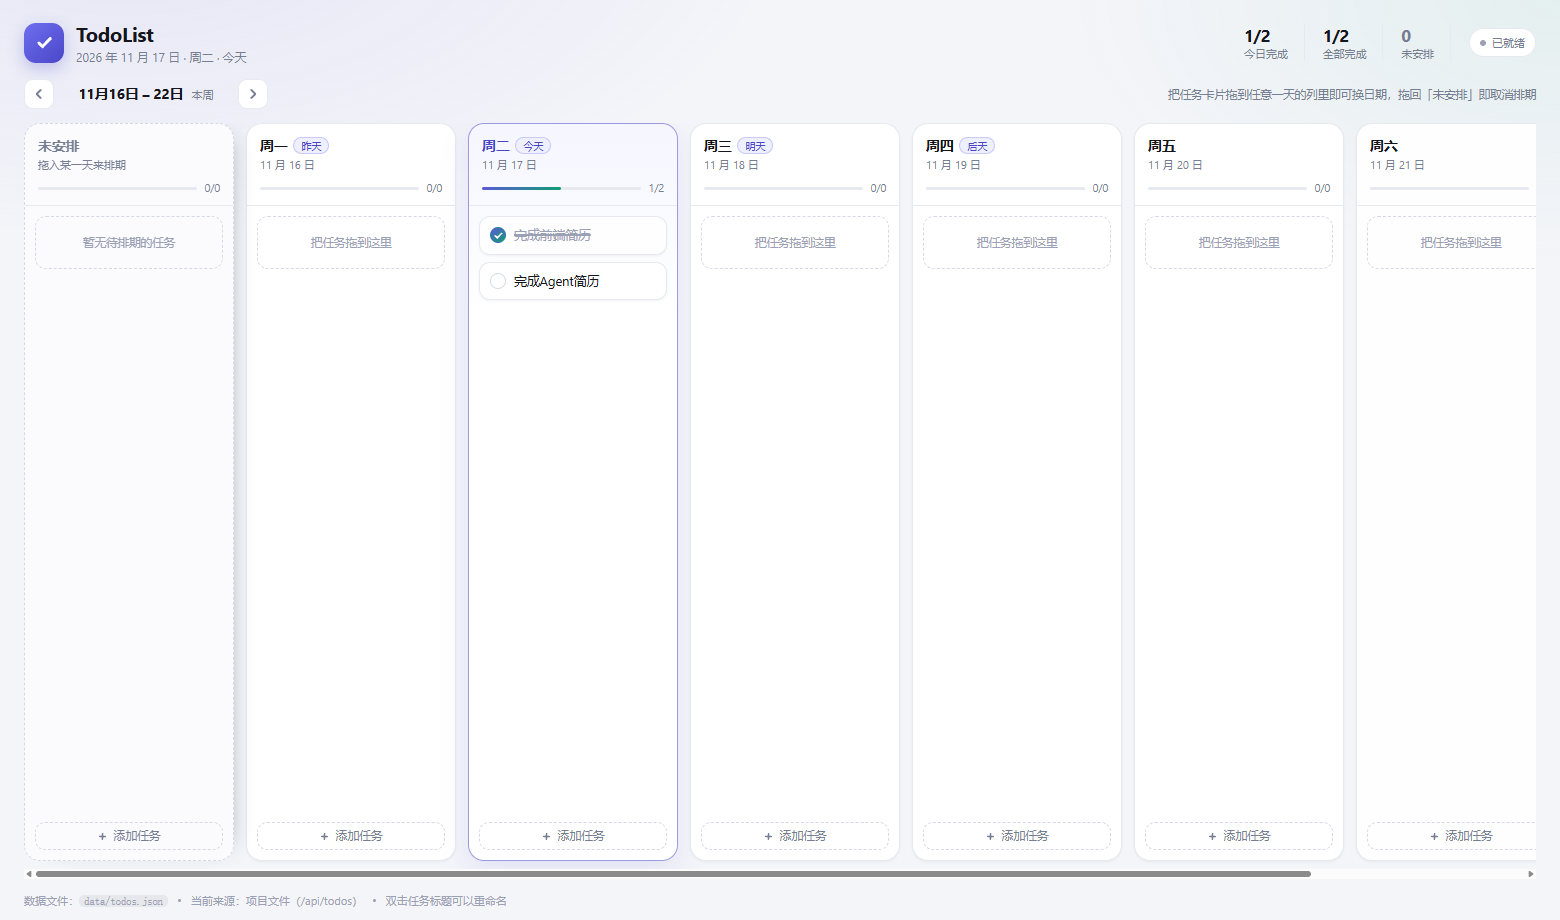
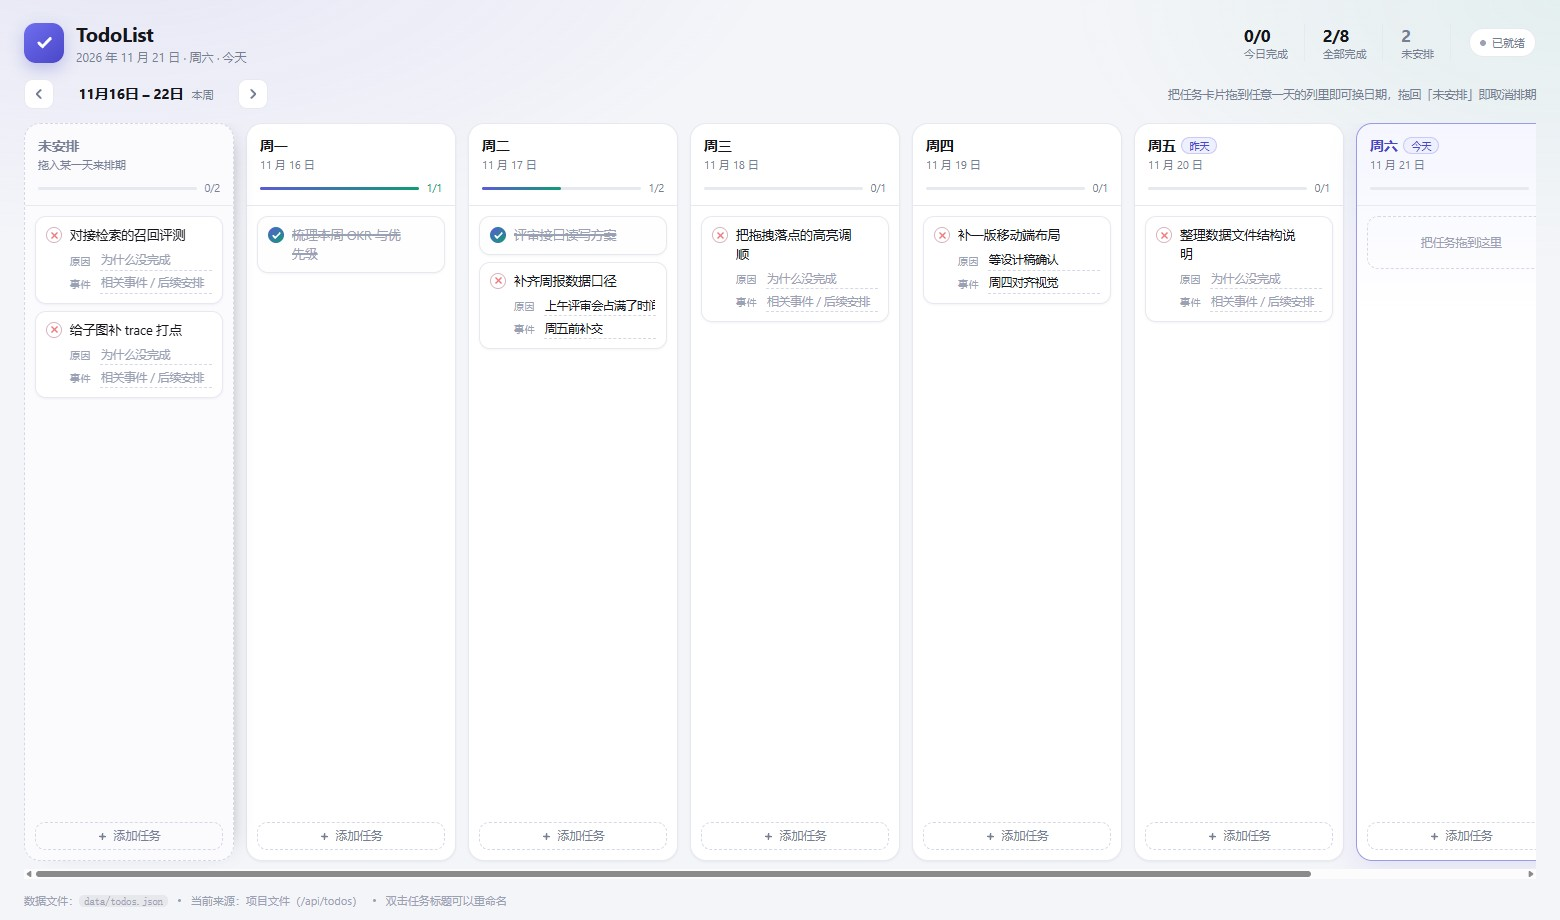
feat: 未完成状态改为叉叉，卡片内可记录原因与事件
- 未完成卡片左侧显示红色叉叉，完成后切换为实心勾
- 未完成卡片下方两行输入：原因 / 事件，边输入边写入 data/todos.json
- 标记完成后收起这两行（数据保留），取消完成会恢复
- 输入框内按鼠标不再触发卡片拖拽，拖拽换日期仍保留原有原因与事件

diff --git a/src/components/TodoItem.jsx b/src/components/TodoItem.jsx
@@ -1,9 +1,19 @@
 import { useEffect, useRef, useState } from 'react'
-import { IconClose } from './Icons.jsx'
+import { IconCheck, IconClose } from './Icons.jsx'
 
-export default function TodoItem({ todo, dragging, onToggle, onRemove, onRename, onDragStart, onDragEnd }) {
+export default function TodoItem({
+  todo,
+  dragging,
+  onToggle,
+  onRemove,
+  onRename,
+  onMeta,
+  onDragStart,
+  onDragEnd,
+}) {
   const [editing, setEditing] = useState(false)
   const [draft, setDraft] = useState(todo.title)
+  const [metaFocus, setMetaFocus] = useState(false)
   const inputRef = useRef(null)
 
   useEffect(() => {
@@ -20,10 +30,10 @@ export default function TodoItem({ todo, dragging, onToggle, onRemove, onRename,
 
   return (
     <div
-      className={`todo ${todo.done ? 'todo--done' : ''} ${dragging ? 'todo--dragging' : ''}`}
+      className={`todo ${todo.done ? 'todo--done' : 'todo--undone'} ${dragging ? 'todo--dragging' : ''}`}
       data-todo-card
       data-todo-id={todo.id}
-      draggable={!editing}
+      draggable={!editing && !metaFocus}
       onDragStart={(event) => {
         event.dataTransfer.effectAllowed = 'move'
         event.dataTransfer.setData('text/plain', todo.id)
@@ -36,55 +46,84 @@ export default function TodoItem({ todo, dragging, onToggle, onRemove, onRename,
       }}
       title="拖到别的日期即可改排期，双击标题可重命名"
     >
-      <button
-        type="button"
-        className="todo__check"
-        aria-pressed={todo.done}
-        aria-label={todo.done ? '标记为未完成' : '标记为已完成'}
-        onClick={(e) => {
-          e.stopPropagation()
-          onToggle(todo.id)
-        }}
-      >
-        <svg viewBox="0 0 16 16" width="11" height="11" aria-hidden>
-          <path
-            d="M3.2 8.4l3.1 3.1 6.5-6.9"
-            fill="none"
-            stroke="currentColor"
-            strokeWidth="2.4"
-            strokeLinecap="round"
-            strokeLinejoin="round"
-          />
-        </svg>
-      </button>
-
-      {editing ? (
-        <input
-          ref={inputRef}
-          className="todo__editor"
-          value={draft}
-          onChange={(e) => setDraft(e.target.value)}
-          onBlur={finish}
-          onKeyDown={(e) => {
-            if (e.key === 'Enter') finish()
-            if (e.key === 'Escape') setEditing(false)
+      <div className="todo__row">
+        <button
+          type="button"
+          className={`todo__status ${todo.done ? 'todo__status--done' : 'todo__status--undone'}`}
+          aria-pressed={todo.done}
+          aria-label={todo.done ? '标记为未完成' : '标记为已完成'}
+          onClick={(e) => {
+            e.stopPropagation()
+            onToggle(todo.id)
           }}
-        />
-      ) : (
-        <span className="todo__title">{todo.title}</span>
-      )}
+        >
+          {todo.done ? (
+            <IconCheck size={11} strokeWidth={2.6} />
+          ) : (
+            <IconClose size={11} strokeWidth={2.4} />
+          )}
+        </button>
 
-      <button
-        type="button"
-        className="todo__del"
-        aria-label="删除任务"
-        onClick={(e) => {
-          e.stopPropagation()
-          onRemove(todo.id)
-        }}
-      >
-        <IconClose size={11} />
-      </button>
+        {editing ? (
+          <input
+            ref={inputRef}
+            className="todo__editor"
+            value={draft}
+            onChange={(e) => setDraft(e.target.value)}
+            onBlur={finish}
+            onKeyDown={(e) => {
+              if (e.key === 'Enter') finish()
+              if (e.key === 'Escape') setEditing(false)
+            }}
+          />
+        ) : (
+          <span className="todo__title">{todo.title}</span>
+        )}
+
+        <button
+          type="button"
+          className="todo__del"
+          aria-label="删除任务"
+          onClick={(e) => {
+            e.stopPropagation()
+            onRemove(todo.id)
+          }}
+        >
+          <IconClose size={11} />
+        </button>
+      </div>
+
+      {!todo.done && (
+        <div
+          className="todo__meta"
+          onDoubleClick={(e) => e.stopPropagation()}
+          onMouseDown={(e) => e.stopPropagation()}
+          onClick={(e) => e.stopPropagation()}
+        >
+          <label className="meta">
+            <span className="meta__label">原因</span>
+            <input
+              className="meta__input"
+              value={todo.reason ?? ''}
+              placeholder="为什么没完成"
+              onChange={(e) => onMeta(todo.id, 'reason', e.target.value)}
+              onFocus={() => setMetaFocus(true)}
+              onBlur={() => setMetaFocus(false)}
+            />
+          </label>
+          <label className="meta">
+            <span className="meta__label">事件</span>
+            <input
+              className="meta__input"
+              value={todo.event ?? ''}
+              placeholder="相关事件 / 后续安排"
+              onChange={(e) => onMeta(todo.id, 'event', e.target.value)}
+              onFocus={() => setMetaFocus(true)}
+              onBlur={() => setMetaFocus(false)}
+            />
+          </label>
+        </div>
+      )}
     </div>
   )
 }

diff --git a/src/styles.css b/src/styles.css
@@ -462,8 +462,8 @@ button {
 /* ── 任务卡 ─────────────────────────────────────────── */
 .todo {
   display: flex;
-  align-items: flex-start;
-  gap: 8px;
+  flex-direction: column;
+  gap: 6px;
   padding: 9px 10px;
   background: var(--panel);
   border: 1px solid var(--line);
@@ -474,6 +474,12 @@ button {
   cursor: grab;
   transition: 0.15s;
   user-select: none;
+}
+
+.todo__row {
+  display: flex;
+  align-items: flex-start;
+  gap: 8px;
 }
 
 .todo:hover {
@@ -503,7 +509,7 @@ button {
   transform: rotate(-1deg);
 }
 
-.todo__check {
+.todo__status {
   flex: none;
   width: 16px;
   height: 16px;
@@ -514,24 +520,86 @@ button {
   border-radius: 50%;
   border: 1.6px solid var(--line-strong);
   background: transparent;
-  color: transparent;
   line-height: 0;
   transition: 0.15s;
 }
 
-.todo__check svg {
+.todo__status svg {
   display: block;
 }
 
-.todo__check:hover {
-  border-color: var(--accent);
-  color: color-mix(in srgb, var(--accent) 45%, transparent);
+/* 未完成：叉叉 */
+.todo__status--undone {
+  color: color-mix(in srgb, var(--danger) 72%, transparent);
+  border-color: color-mix(in srgb, var(--danger) 26%, var(--line-strong));
 }
 
-.todo--done .todo__check {
+.todo__status--undone:hover {
+  color: var(--danger);
+  border-color: color-mix(in srgb, var(--danger) 65%, transparent);
+  background: color-mix(in srgb, var(--danger) 8%, transparent);
+}
+
+/* 已完成：实心勾 */
+.todo__status--done {
+  color: #fff;
   border-color: transparent;
   background: linear-gradient(140deg, var(--accent), var(--ok));
-  color: #fff;
+}
+
+.todo__status--done:hover {
+  filter: brightness(1.06);
+}
+
+/* 未完成卡片下的「原因 / 事件」输入 */
+.todo__meta {
+  display: flex;
+  flex-direction: column;
+  gap: 3px;
+  padding-left: 24px;
+  cursor: default;
+}
+
+.meta {
+  display: flex;
+  align-items: center;
+  gap: 6px;
+  min-width: 0;
+}
+
+.meta__label {
+  flex: none;
+  width: 24px;
+  font-size: 10px;
+  line-height: 14px;
+  letter-spacing: 0.5px;
+  color: var(--muted-2);
+}
+
+.meta__input {
+  flex: 1;
+  min-width: 0;
+  height: 20px;
+  padding: 0 1px;
+  border: 0;
+  border-bottom: 1px dashed var(--line-strong);
+  border-radius: 0;
+  background: transparent;
+  color: var(--ink);
+  font: inherit;
+  font-size: 11.5px;
+  line-height: 20px;
+  outline: none;
+  transition: border-color 0.15s;
+}
+
+.meta__input::placeholder {
+  color: var(--muted-2);
+}
+
+.meta__input:focus {
+  border-bottom-style: solid;
+  border-bottom-color: var(--accent);
 }
 
 .todo__title {

diff --git a/src/App.jsx b/src/App.jsx
@@ -99,6 +99,8 @@ export default function App() {
           title: text,
           date: dateKey,
           done: false,
+          reason: '',
+          event: '',
           order: siblings.length,
           createdAt: new Date().toISOString(),
         },
@@ -112,6 +114,10 @@ export default function App() {
 
   const removeTodo = useCallback((id) => {
     setTodos((prev) => prev.filter((t) => t.id !== id))
+  }, [])
+
+  const setMeta = useCallback((id, field, value) => {
+    setTodos((prev) => prev.map((t) => (t.id === id ? { ...t, [field]: value } : t)))
   }, [])
 
   const renameTodo = useCallback((id, title) => {
@@ -250,6 +256,7 @@ export default function App() {
           onToggle={toggleTodo}
           onRemove={removeTodo}
           onRename={renameTodo}
+          onMeta={setMeta}
           onMove={moveTodo}
           draggingId={dragId}
           onDragStart={setDragId}
@@ -274,6 +281,7 @@ export default function App() {
               onToggle={toggleTodo}
               onRemove={removeTodo}
               onRename={renameTodo}
+              onMeta={setMeta}
               onMove={moveTodo}
               draggingId={dragId}
               onDragStart={setDragId}

diff --git a/src/components/DayColumn.jsx b/src/components/DayColumn.jsx
@@ -15,6 +15,7 @@ export default function DayColumn({
   onToggle,
   onRemove,
   onRename,
+  onMeta,
   onMove,
   draggingId,
   onDragStart,
@@ -107,6 +108,7 @@ export default function DayColumn({
         onToggle={onToggle}
         onRemove={onRemove}
         onRename={onRename}
+        onMeta={onMeta}
         onDragStart={onDragStart}
         onDragEnd={onDragEnd}
       />,

diff --git a/src/lib/store.js b/src/lib/store.js
@@ -11,6 +11,8 @@ function normalize(payload) {
       title: t.title,
       date: t.date ?? null,
       done: Boolean(t.done),
+      reason: typeof t.reason === 'string' ? t.reason : '',
+      event: typeof t.event === 'string' ? t.event : '',
       order: Number.isFinite(t.order) ? t.order : i,
       createdAt: t.createdAt ?? new Date().toISOString(),
     }))

diff --git a/README.md b/README.md
@@ -43,6 +43,8 @@ npm run preview  # http://localhost:4173
       "title": "梳理本周 OKR 与优先级",
       "date": "2026-11-17",   // null = 未安排（左侧收集箱）
       "done": false,
+      "reason": "",            // 未完成原因（仅未完成卡片可见）
+      "event": "",             // 关联事件 / 后续安排
       "order": 0,             // 同一列内的排序
       "createdAt": "2026-11-17T08:00:00.000Z"
     }
@@ -55,7 +57,8 @@ npm run preview  # http://localhost:4173
 ## 功能与交互
 
 - **每日日期**：周一至周日各一列，列头显示星期、`M 月 D 日`，以及「昨天 / 今天 / 明天 / 后天」标记；今天那列有高亮底色。
-- **完成状态**：每张卡片左侧圆形勾选框，勾选后文字出现删除线、整张卡片置灰；每列底部有 `已完成/总数` 进度条。
+- **完成状态**：未完成卡片左侧是**红色叉叉**，完成后变成实心勾（蓝绿渐变），文字加删除线、卡片置灰；每列底部有 `已完成/总数` 进度条。
+- **原因 / 事件**：未完成卡片下方有两行输入框 —— 「原因」（为什么没完成）和「事件」（相关事件 / 后续安排），边输入边保存到数据文件；标记完成后自动收起（数据保留），再取消完成会原样恢复。
 - **拖拽排期**：按住卡片拖到任意一天的列里即改日期；拖进列内不同位置可调整顺序（拖动时有插入位置指示线和目标列高亮）；拖回「未安排」列即取消排期。
 - **新增 / 重命名 / 删除**：列底「＋ 添加任务」回车保存、Esc 取消；双击标题可直接改文字；悬停卡片右侧出现删除按钮。
 - **周切换**：← / → 翻上一周/下一周，「回到本周」一键跳回；若有任务落在别的周，顶部会提示「另有 N 项在其他周」。
